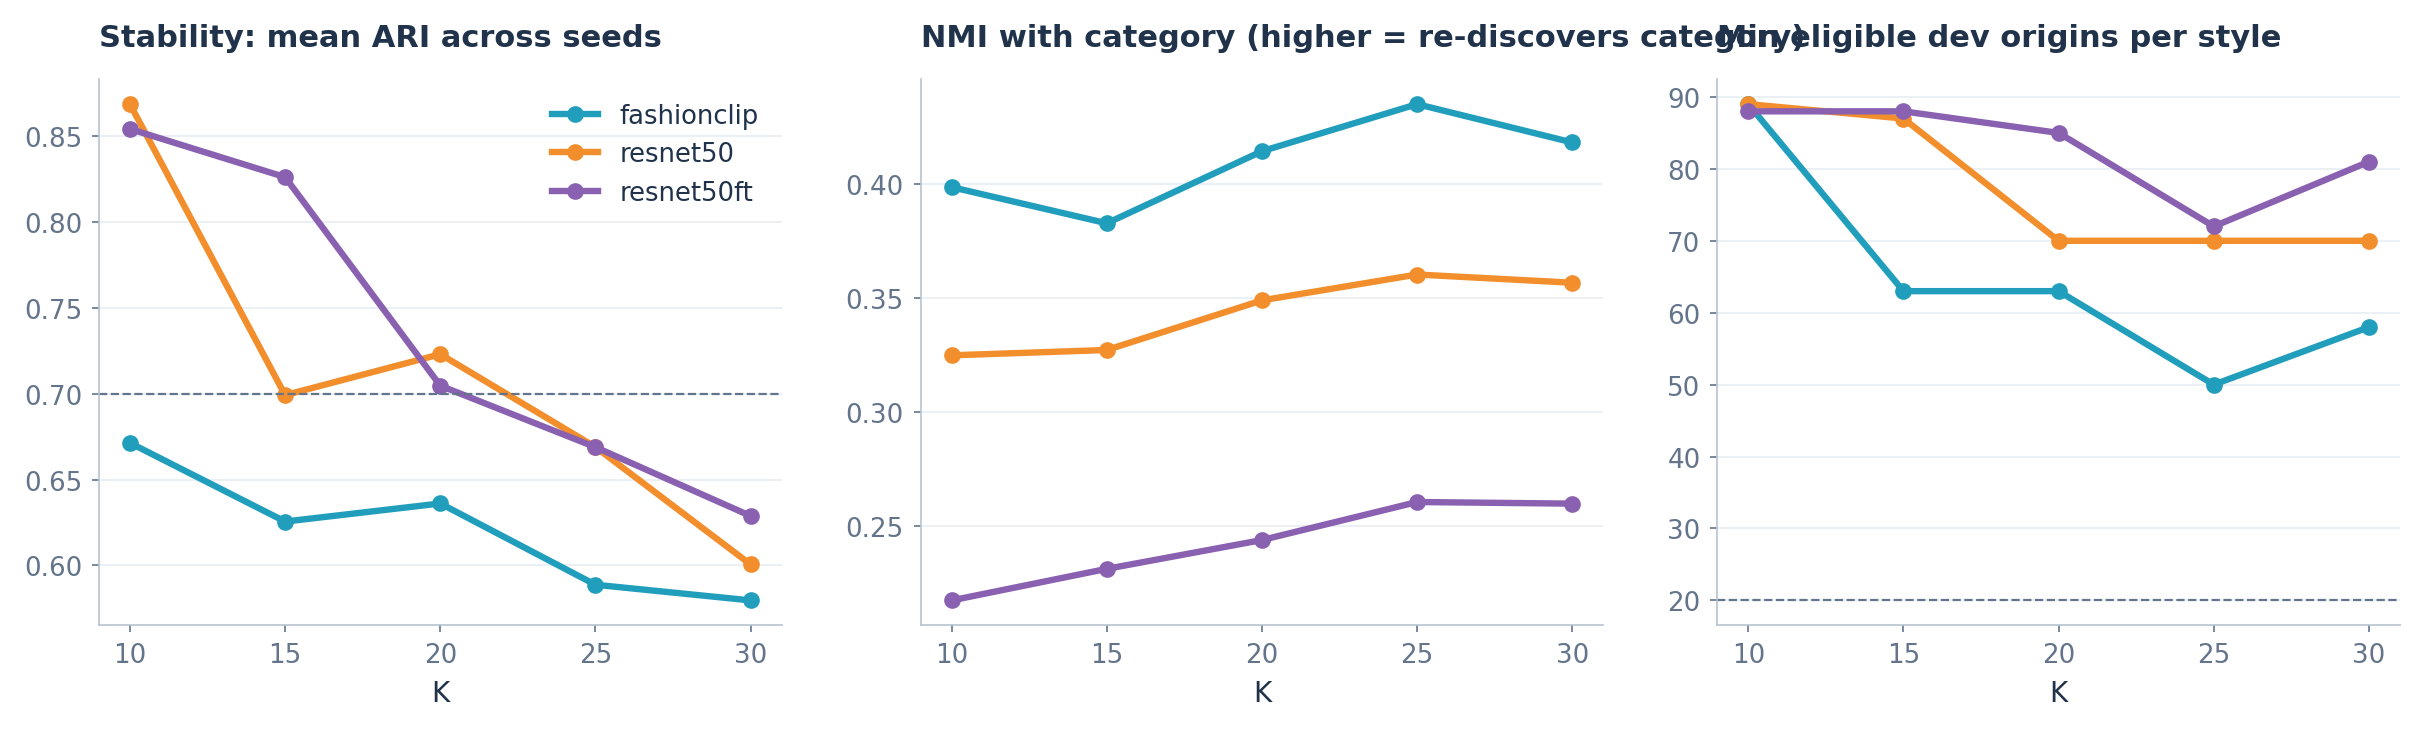
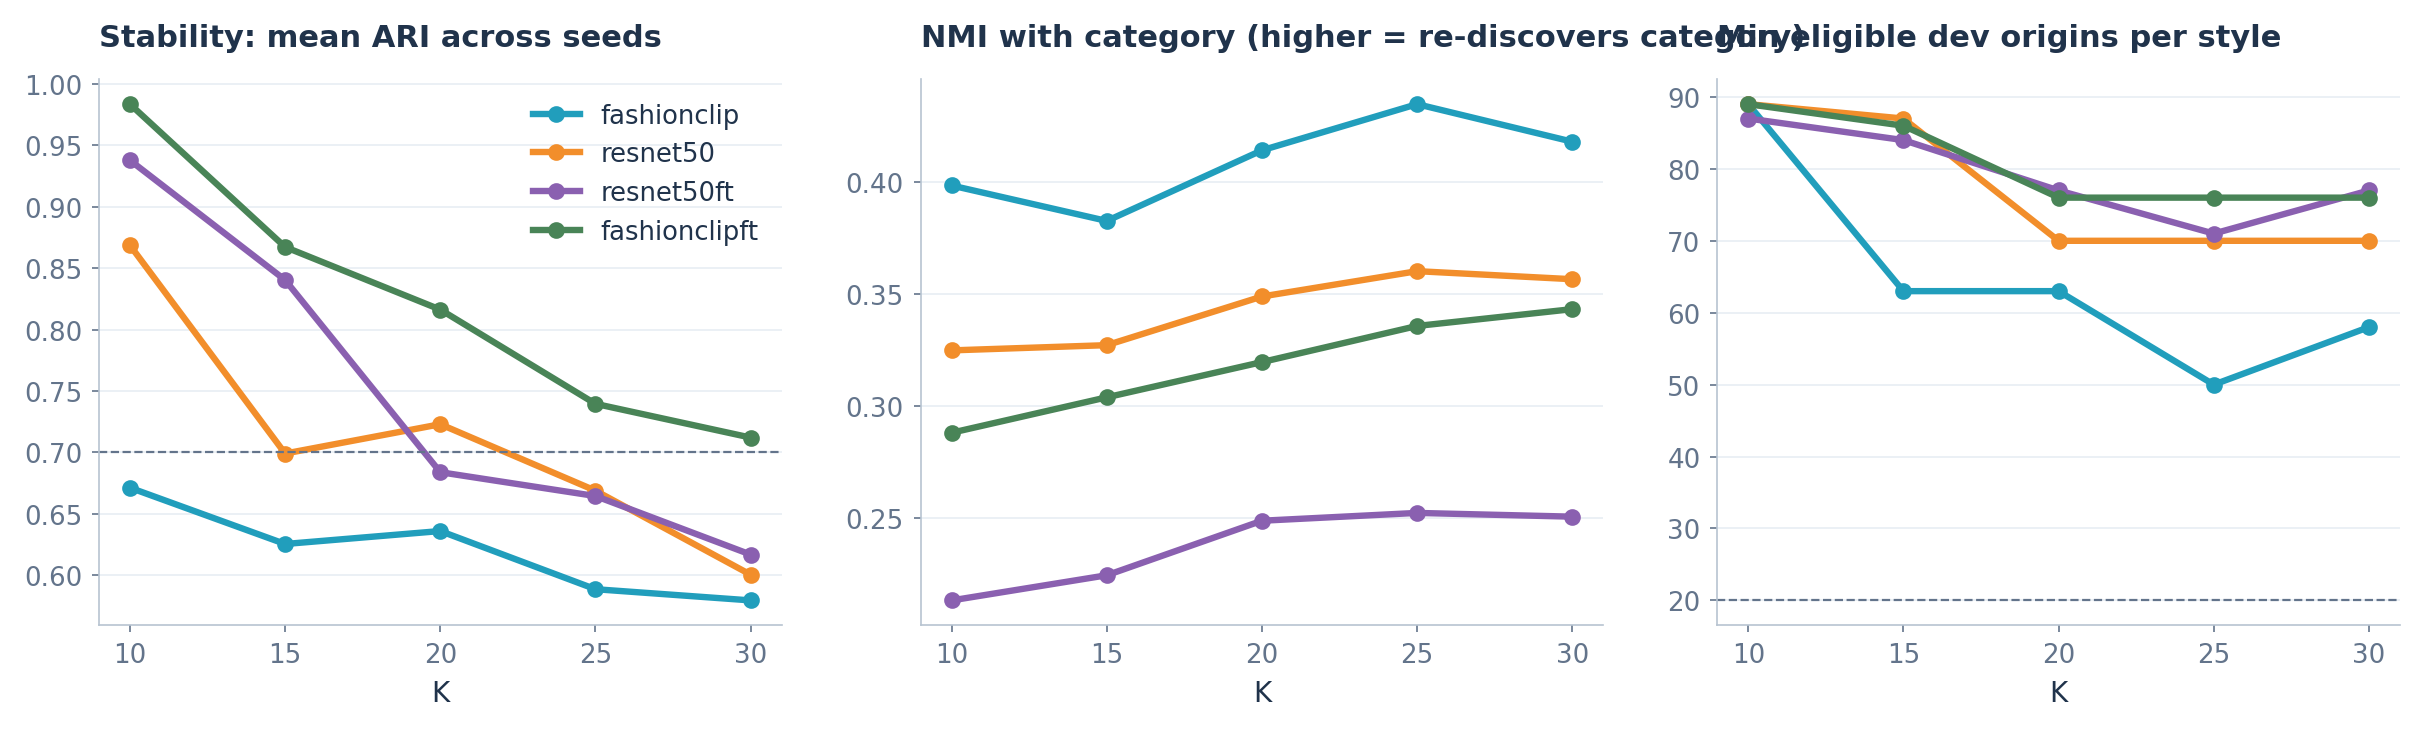
Refresh G2 encoder comparison with current fine-tuned cluster results
- G2_encoder_comparison.{csv,md,png}: resnet50ft K=20 ARI 0.705 -> 0.684 (now fails the 0.70 stability gate); add fashionclipft rows; keep fashionclip/resnet50 rows (grids not on disk)
- FINAL_RESULTS.md: update fine-tuned rows to match
- docs/04_KET_QUA.md: fix RQ1 table and fine-tune validation accuracy (75.1% type / 65.0% colour)

diff --git a/outputs/reports/G2_encoder_comparison.md b/outputs/reports/G2_encoder_comparison.md
@@ -3,22 +3,27 @@
 Silhouette và DBI chỉ so trong cùng một encoder. Giữa hai encoder chỉ so ARI, NMI, coverage, kích thước.
 `pass_all` = qua gate đăng ký trước (size, stability, coverage). Chọn cuối cùng cần xem contact sheets.
 
-| encoder     |   k |   silhouette |   davies_bouldin |   ari_mean |   ari_sd |   size_min |   size_max |   min_eligible_dev_origins |   nmi_category |   nmi_color |   nmi_fabric | pass_size   | pass_stability   | pass_coverage   | pass_all   |
-|:------------|----:|-------------:|-----------------:|-----------:|---------:|-----------:|-----------:|---------------------------:|---------------:|------------:|-------------:|:------------|:-----------------|:----------------|:-----------|
-| fashionclip |  10 |        0.065 |            3.21  |      0.671 |    0.076 |        160 |        505 |                         89 |          0.399 |       0.109 |        0.321 | True        | False            | True            | False      |
-| fashionclip |  15 |        0.061 |            3.223 |      0.625 |    0.08  |         93 |        392 |                         63 |          0.383 |       0.131 |        0.357 | True        | False            | True            | False      |
-| fashionclip |  20 |        0.065 |            3.041 |      0.636 |    0.062 |         93 |        269 |                         63 |          0.414 |       0.125 |        0.367 | True        | False            | True            | False      |
-| fashionclip |  25 |        0.063 |            2.983 |      0.589 |    0.048 |         81 |        284 |                         50 |          0.435 |       0.121 |        0.394 | True        | False            | True            | False      |
-| fashionclip |  30 |        0.063 |            2.901 |      0.58  |    0.047 |         69 |        181 |                         58 |          0.418 |       0.122 |        0.395 | True        | False            | True            | False      |
-| resnet50    |  10 |        0.08  |            2.865 |      0.869 |    0.074 |        135 |        585 |                         89 |          0.325 |       0.067 |        0.266 | True        | True             | True            | True       |
-| resnet50    |  15 |        0.069 |            2.843 |      0.699 |    0.073 |        116 |        479 |                         87 |          0.327 |       0.088 |        0.292 | True        | False            | True            | False      |
-| resnet50    |  20 |        0.066 |            2.826 |      0.723 |    0.05  |        111 |        286 |                         70 |          0.349 |       0.099 |        0.33  | True        | True             | True            | True       |
-| resnet50    |  25 |        0.062 |            2.753 |      0.669 |    0.057 |         71 |        251 |                         70 |          0.36  |       0.113 |        0.336 | True        | False            | True            | False      |
-| resnet50    |  30 |        0.06  |            2.871 |      0.601 |    0.039 |         64 |        213 |                         70 |          0.357 |       0.124 |        0.343 | True        | False            | True            | False      |
-| resnet50ft  |  10 |        0.095 |            2.333 |      0.854 |    0.141 |        114 |        494 |                         88 |          0.218 |       0.172 |        0.21  | True        | True             | True            | True       |
-| resnet50ft  |  15 |        0.095 |            2.496 |      0.826 |    0.066 |        113 |        344 |                         88 |          0.231 |       0.205 |        0.232 | True        | True             | True            | True       |
-| resnet50ft  |  20 |        0.095 |            2.5   |      0.705 |    0.047 |         40 |        341 |                         85 |          0.244 |       0.21  |        0.254 | True        | True             | True            | True       |
-| resnet50ft  |  25 |        0.086 |            2.427 |      0.669 |    0.043 |         39 |        267 |                         72 |          0.261 |       0.217 |        0.269 | True        | False            | True            | False      |
-| resnet50ft  |  30 |        0.08  |            2.463 |      0.629 |    0.036 |         38 |        213 |                         81 |          0.26  |       0.237 |        0.274 | True        | False            | True            | False      |
+| encoder       |   k |   silhouette |   davies_bouldin |   ari_mean |   ari_sd |   size_min |   size_max |   min_eligible_dev_origins |   nmi_category |   nmi_color |   nmi_fabric | pass_size   | pass_stability   | pass_coverage   | pass_all   |
+|:--------------|----:|-------------:|-----------------:|-----------:|---------:|-----------:|-----------:|---------------------------:|---------------:|------------:|-------------:|:------------|:-----------------|:----------------|:-----------|
+| fashionclip   |  10 |        0.065 |            3.21  |      0.671 |    0.076 |        160 |        505 |                         89 |          0.399 |       0.109 |        0.321 | True        | False            | True            | False      |
+| fashionclip   |  15 |        0.061 |            3.223 |      0.625 |    0.08  |         93 |        392 |                         63 |          0.383 |       0.131 |        0.357 | True        | False            | True            | False      |
+| fashionclip   |  20 |        0.065 |            3.041 |      0.636 |    0.062 |         93 |        269 |                         63 |          0.414 |       0.125 |        0.367 | True        | False            | True            | False      |
+| fashionclip   |  25 |        0.063 |            2.983 |      0.589 |    0.048 |         81 |        284 |                         50 |          0.435 |       0.121 |        0.394 | True        | False            | True            | False      |
+| fashionclip   |  30 |        0.063 |            2.901 |      0.58  |    0.047 |         69 |        181 |                         58 |          0.418 |       0.122 |        0.395 | True        | False            | True            | False      |
+| resnet50      |  10 |        0.08  |            2.865 |      0.869 |    0.074 |        135 |        585 |                         89 |          0.325 |       0.067 |        0.266 | True        | True             | True            | True       |
+| resnet50      |  15 |        0.069 |            2.843 |      0.699 |    0.073 |        116 |        479 |                         87 |          0.327 |       0.088 |        0.292 | True        | False            | True            | False      |
+| resnet50      |  20 |        0.066 |            2.826 |      0.723 |    0.05  |        111 |        286 |                         70 |          0.349 |       0.099 |        0.33  | True        | True             | True            | True       |
+| resnet50      |  25 |        0.062 |            2.753 |      0.669 |    0.057 |         71 |        251 |                         70 |          0.36  |       0.113 |        0.336 | True        | False            | True            | False      |
+| resnet50      |  30 |        0.06  |            2.871 |      0.601 |    0.039 |         64 |        213 |                         70 |          0.357 |       0.124 |        0.343 | True        | False            | True            | False      |
+| resnet50ft    |  10 |        0.099 |            2.393 |      0.938 |    0.019 |        111 |        487 |                         87 |          0.213 |       0.196 |        0.197 | True        | True             | True            | True       |
+| resnet50ft    |  15 |        0.094 |            2.393 |      0.84  |    0.058 |        108 |        352 |                         84 |          0.225 |       0.225 |        0.22  | True        | True             | True            | True       |
+| resnet50ft    |  20 |        0.085 |            2.531 |      0.684 |    0.048 |        106 |        299 |                         77 |          0.249 |       0.232 |        0.241 | True        | False            | True            | False      |
+| resnet50ft    |  25 |        0.086 |            2.479 |      0.665 |    0.053 |         40 |        239 |                         71 |          0.252 |       0.247 |        0.258 | True        | False            | True            | False      |
+| resnet50ft    |  30 |        0.076 |            2.484 |      0.617 |    0.04  |         40 |        217 |                         77 |          0.251 |       0.256 |        0.261 | True        | False            | True            | False      |
+| fashionclipft |  10 |        0.118 |            2.157 |      0.984 |    0.015 |        214 |        581 |                         89 |          0.288 |       0.28  |        0.21  | True        | True             | True            | True       |
+| fashionclipft |  15 |        0.124 |            2.202 |      0.867 |    0.06  |        120 |        455 |                         86 |          0.304 |       0.315 |        0.229 | True        | True             | True            | True       |
+| fashionclipft |  20 |        0.111 |            2.349 |      0.816 |    0.051 |         99 |        325 |                         76 |          0.32  |       0.314 |        0.261 | True        | True             | True            | True       |
+| fashionclipft |  25 |        0.102 |            2.368 |      0.74  |    0.053 |         68 |        288 |                         76 |          0.336 |       0.319 |        0.278 | True        | True             | True            | True       |
+| fashionclipft |  30 |        0.096 |            2.478 |      0.712 |    0.034 |         56 |        203 |                         76 |          0.343 |       0.31  |        0.286 | True        | True             | True            | True       |
 
 ![](G2_encoder_comparison.png)

diff --git a/outputs/reports/FINAL_RESULTS.md b/outputs/reports/FINAL_RESULTS.md
@@ -21,11 +21,16 @@ Sinh tự động bởi `scripts/14_final_report.py`. Diễn giải: `docs/04_KE
 | resnet50    |  20 |        0.066 |            2.826 |      0.723 |    0.05  |        111 |                         70 |          0.349 |       0.099 |        0.33  | True       |
 | resnet50    |  25 |        0.062 |            2.753 |      0.669 |    0.057 |         71 |                         70 |          0.36  |       0.113 |        0.336 | False      |
 | resnet50    |  30 |        0.06  |            2.871 |      0.601 |    0.039 |         64 |                         70 |          0.357 |       0.124 |        0.343 | False      |
-| resnet50ft  |  10 |        0.095 |            2.333 |      0.854 |    0.141 |        114 |                         88 |          0.218 |       0.172 |        0.21  | True       |
-| resnet50ft  |  15 |        0.095 |            2.496 |      0.826 |    0.066 |        113 |                         88 |          0.231 |       0.205 |        0.232 | True       |
-| resnet50ft  |  20 |        0.095 |            2.5   |      0.705 |    0.047 |         40 |                         85 |          0.244 |       0.21  |        0.254 | True       |
-| resnet50ft  |  25 |        0.086 |            2.427 |      0.669 |    0.043 |         39 |                         72 |          0.261 |       0.217 |        0.269 | False      |
-| resnet50ft  |  30 |        0.08  |            2.463 |      0.629 |    0.036 |         38 |                         81 |          0.26  |       0.237 |        0.274 | False      |
+| resnet50ft  |  10 |        0.099 |            2.393 |      0.938 |    0.019 |        111 |                         87 |          0.213 |       0.196 |        0.197 | True       |
+| resnet50ft  |  15 |        0.094 |            2.393 |      0.840 |    0.058 |        108 |                         84 |          0.225 |       0.225 |         0.22 | True       |
+| resnet50ft  |  20 |        0.085 |            2.531 |      0.684 |    0.048 |        106 |                         77 |          0.249 |       0.232 |        0.241 | False      |
+| resnet50ft  |  25 |        0.086 |            2.479 |      0.665 |    0.053 |         40 |                         71 |          0.252 |       0.247 |        0.258 | False      |
+| resnet50ft  |  30 |        0.076 |            2.484 |      0.617 |     0.04 |         40 |                         77 |          0.251 |       0.256 |        0.261 | False      |
+| fashionclipft |  10 |        0.118 |            2.157 |      0.984 |    0.015 |        214 |                         89 |          0.288 |        0.28 |         0.21 | True       |
+| fashionclipft |  15 |        0.124 |            2.202 |      0.867 |     0.06 |        120 |                         86 |          0.304 |       0.315 |        0.229 | True       |
+| fashionclipft |  20 |        0.111 |            2.349 |      0.816 |    0.051 |         99 |                         76 |          0.320 |       0.314 |        0.261 | True       |
+| fashionclipft |  25 |        0.102 |            2.368 |      0.740 |    0.053 |         68 |                         76 |          0.336 |       0.319 |        0.278 | True       |
+| fashionclipft |  30 |        0.096 |            2.478 |      0.712 |    0.034 |         56 |                         76 |          0.343 |        0.31 |        0.286 | True       |
 
 Cấu hình chính (D09): **resnet50, K = 20**. Ảnh cấu hình chính: `outputs/clusters/resnet50/overview_k20.png` (các overview khác sinh lại bởi `scripts/03_cluster_styles.py`).
 

diff --git a/docs/04_KET_QUA.md b/docs/04_KET_QUA.md
@@ -103,15 +103,16 @@ Lưu ý quy trình: một lượt chạy trước bị lẫn cột `ctx_resnet50
 
 Kết luận vượt baseline ổn định qua mọi biến thể; mức tuyệt đối phụ thuộc nhiều vào định nghĩa target.
 
-## RQ1 chi tiết – ba biểu diễn ảnh (K = 20)
+## RQ1 chi tiết – bốn biểu diễn ảnh (K = 20)
 
 | Encoder | ARI ổn định | Silhouette (trong không gian riêng) | NMI category / color / fabric | Qua gate |
 | --- | --- | --- | --- | --- |
 | FashionCLIP | 0,636 | 0,065 | 0,41 / 0,13 / 0,37 | Không (ARI) |
 | ResNet-50 (ImageNet, frozen) | 0,723 | 0,066 | 0,35 / 0,10 / 0,33 | Có (chọn) |
-| ResNet-50 fine-tuned Myntra (Người 4, bổ sung sau chốt) | 0,705 | 0,095 | 0,24 / 0,21 / 0,25 | Có |
+| ResNet-50 fine-tuned Myntra (Người 4, bổ sung sau chốt) | 0,684 | 0,085 | 0,25 / 0,23 / 0,24 | Không (ARI < 0,70) |
+| FashionCLIP fine-tuned Myntra (bổ sung sau chốt) | 0,816 | 0,111 | 0,32 / 0,31 / 0,26 | Có |
 
-Fine-tune trên 8.850 ảnh đồ nữ Myntra (3 epoch, chỉ `layer4`; validation: đúng 76,5% loại sản phẩm, 66,2% màu) làm style nghiêng sang **màu** (NMI color tăng gấp đôi) và ít trùng category hơn. Ở cấp style, final test của cấu hình này cho Macro-F1 0,632–0,647, tương đương các cấu hình khác.
+Fine-tune trên 8.850 ảnh đồ nữ Myntra (3 epoch, chỉ `layer4`; validation epoch 3: đúng 75,1% loại sản phẩm, 65,0% màu) làm style nghiêng sang **màu** (NMI color tăng gấp đôi) và ít trùng category hơn. Ở cấp style, final test của cấu hình này cho Macro-F1 0,632–0,647, tương đương các cấu hình khác.
 
 Lưu ý: cấu hình fine-tuned được thêm **sau** khi đã chốt quyết định và chạy final test chính, theo dataset bổ sung. Đây là phân tích bổ sung, không thay cấu hình chính.
 
